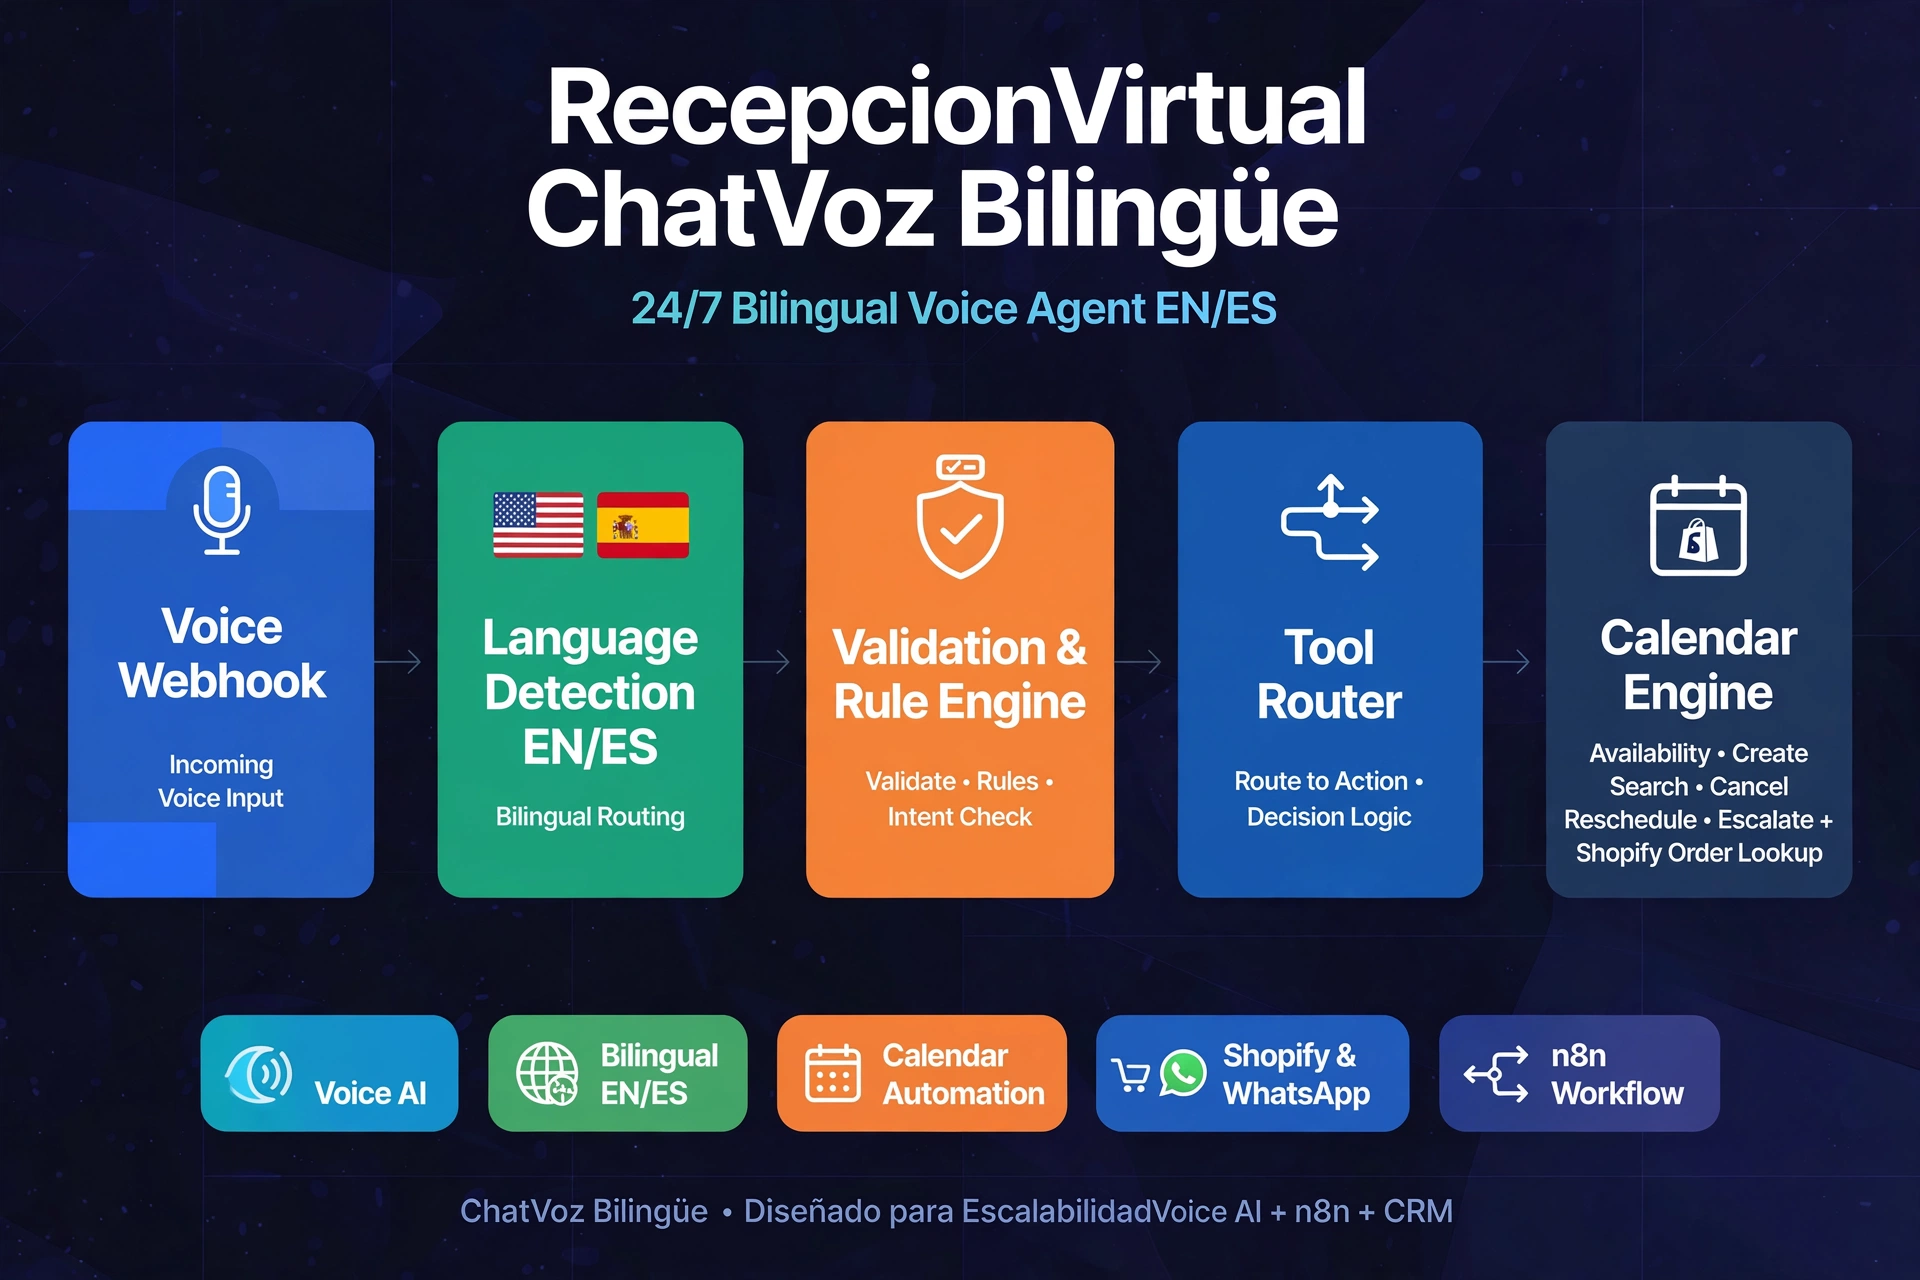
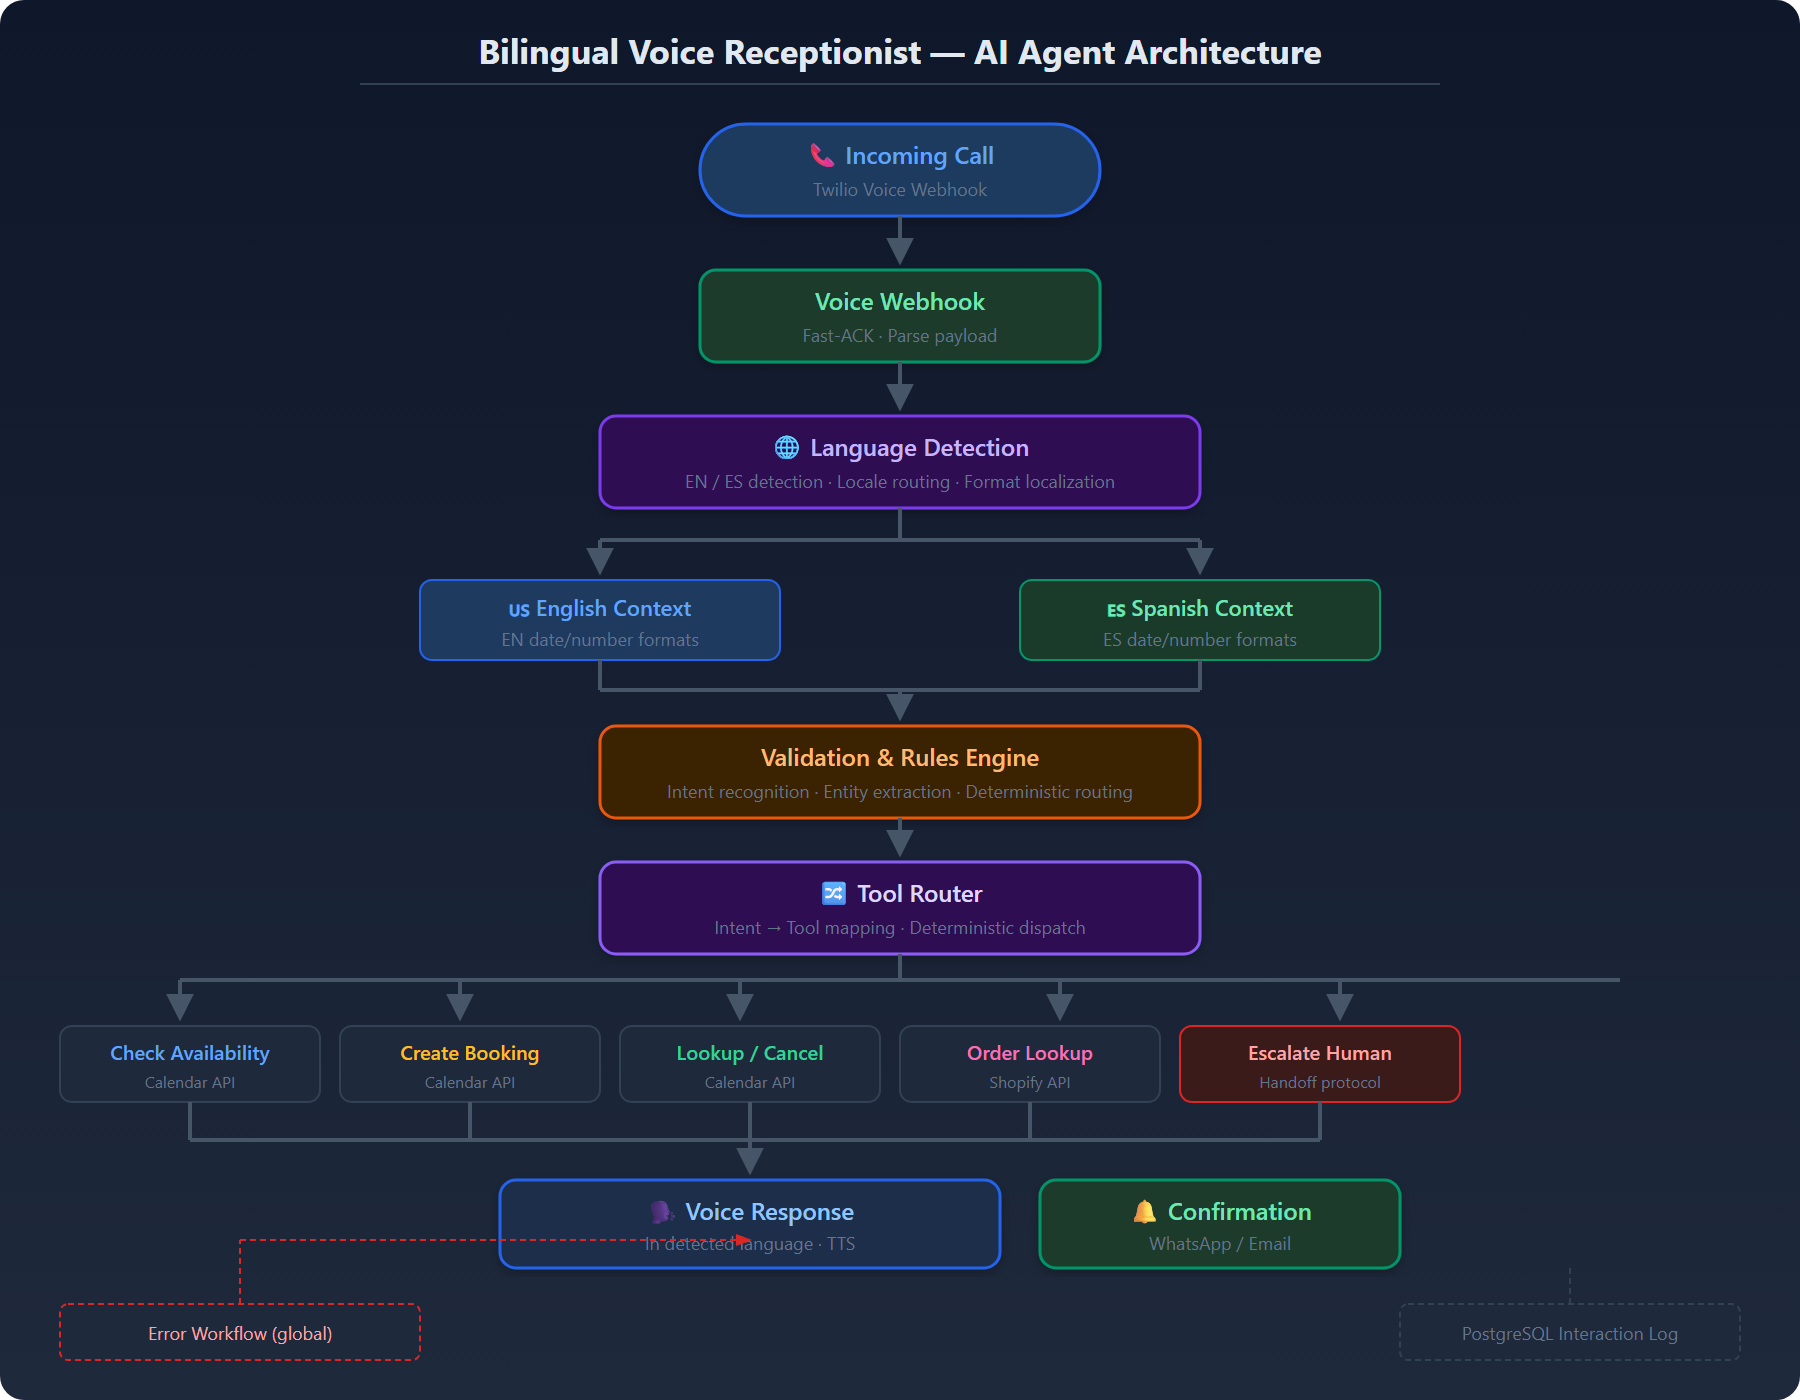
docs: regenerate voice receptionist diagram in English
- replace voice-receptionist-architecture.png with a render of the
  English voice-agent-bilingual-architecture.svg (Spanish labels removed)
- mark all repository diagrams verified English in assets/README.md
- verified via Windows OCR scan at 2x; no editable source needed for
  the remaining diagrams (already English)

diff --git a/assets/README.md b/assets/README.md
@@ -44,17 +44,10 @@ implementation details. See [SECURITY.md](../SECURITY.md).
 
 ## Images pending manual rework
 
-The following PNG diagrams contain Spanish labels baked into the image. They are
-functional but not yet aligned with the English documentation; they need a manual
-replacement pass with an image editor:
-
-| File | Needed change |
-|---|---|
-| `diagrams/lead-qualification-architecture.png` | Translate embedded labels to English |
-| `diagrams/whatsapp-agent-architecture.png` | Translate embedded labels to English |
-| `diagrams/whatsapp-agent-flow.png` | Translate embedded labels to English |
-| `diagrams/whatsapp-agent-commerce.webp` | Translate embedded labels to English |
-| `diagrams/voice-receptionist-architecture.png` | Translate embedded labels to English |
+None. All diagrams were verified in English via OCR scan (January 2026 audit) and any
+outlier was regenerated from its editable SVG source (`voice-receptionist-architecture.png`
+was replaced by a render of `projects/voice-receptionist/voice-agent-bilingual-architecture.svg`,
+which is already in English).
 
 All SVG diagrams and Mermaid diagrams in the repository are already in English.
 
